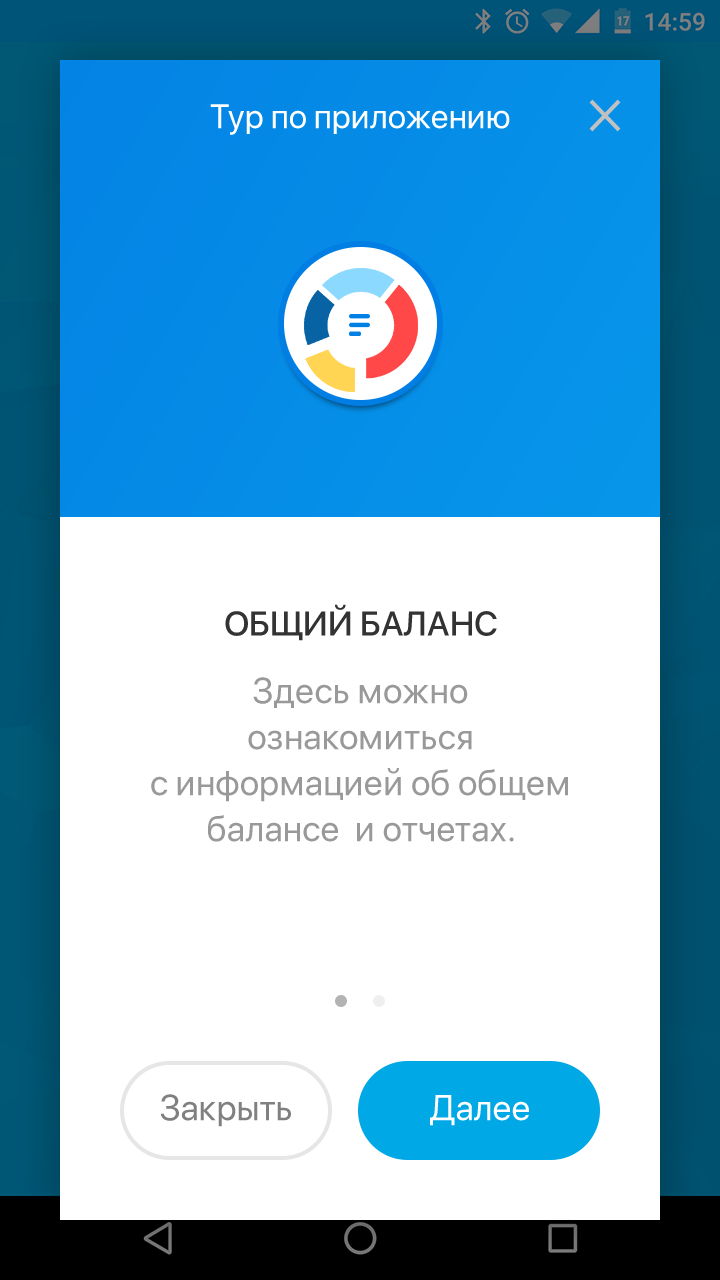
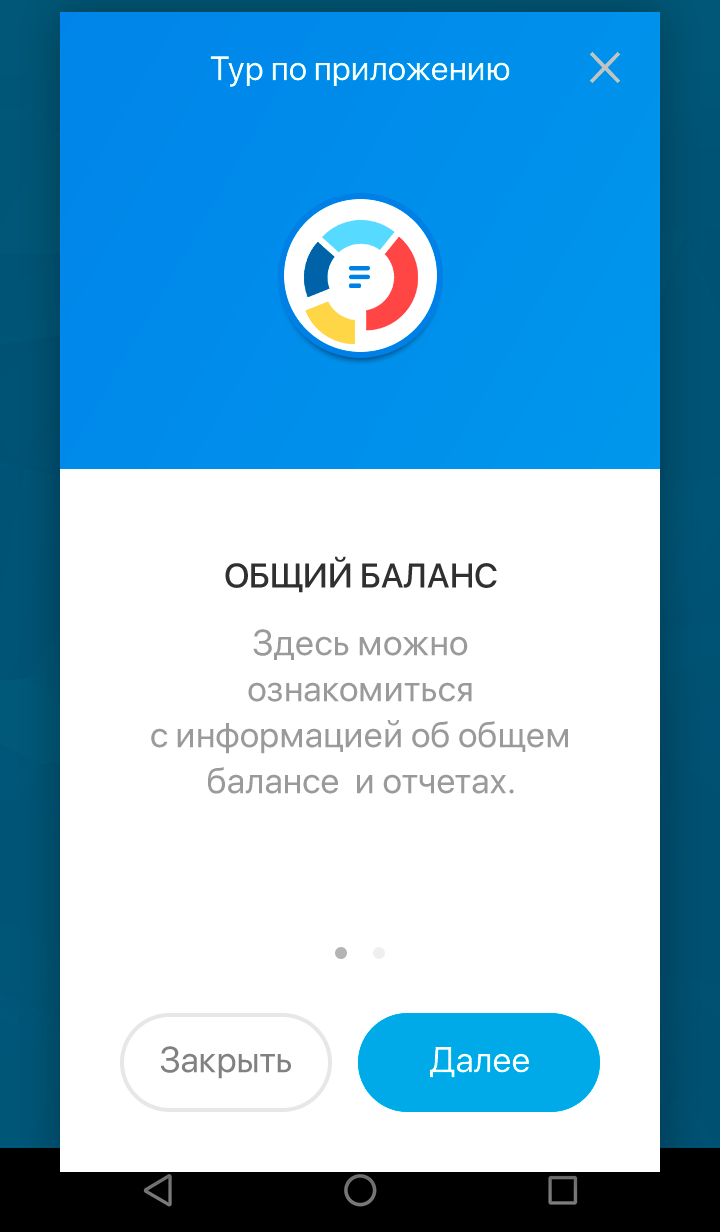
Component Tour with back side

diff --git a/click.parent/click.client/www/js/cssGenerator/Css.Generator.js b/click.parent/click.client/www/js/cssGenerator/Css.Generator.js
@@ -3011,7 +3011,7 @@ var css = {
   "background-color: white;" +
   "top:" + 78 * widthK + "px; " +
   "position:fixed;" +
-  "display: none;" +
+    //"display: none;" +
     //"box-shadow: 0 0 20px rgba(0,0,0,0.5);" +
   "-webkit-box-shadow: 0 8px 6px -6px rgba(0,0,0,0.5);" +
   "-moz-box-shadow: 0 8px 6px -6px rgba(0,0,0,0.5);" +
@@ -12961,8 +12961,23 @@ var css = {
 
 //  COMPONENT TOUR
 
+  tourBackPage: ".tour-back-page " +
+  "{" +
+  "position: absolute;" +
+  "height: 100%;" +
+  "width: 100%;" +
+  "overflow: hidden;" +
+  "overflow: hidden;" +
+  "transform: translate(0, 0);" +
+  "-webkit-transform: translate(0, 0);" +
+  "-ms-transform: translate(0, 0);" +
+  "background-color: rgba(0, 0, 0, 0.6);" +
+  "opacity: 1;" +
+  "}",
+
   componentTour: ".component-tour " +
   "{" +
+  "top: 1%;" +
   "position: absolute;" +
   "opacity: 1;" +
   "height: 95%;" +
@@ -12971,7 +12986,8 @@ var css = {
   "left: 8%;" +
   "background-color: white;" +
   "overflow: hidden;" +
-  "display:none;" +
+    //"display:none;" +
+  "z-index:999;" +
   "}",
 
   tourCardCarousel: ".tour-card-carousel " +
@@ -13124,7 +13140,7 @@ var css = {
   "height: 10%;" +
   "width: 100%;" +
     //"top:" + 500 * widthK + "px;" +
-  "bottom:4%;" +
+  "bottom:4.5%;" +
   "display: table;" +
   "margin-right: auto;" +
   "margin-left: auto;" +
@@ -13160,7 +13176,7 @@ var css = {
   tourCloseButton: ".tour-close-button" +
   "{" +
   "background-color: transparent;" +
-  "border: 2px solid #c1c1c1;" +
+  "border: 2px solid gainsboro;" +
   "width: 35%;" +
   "}",
 
@@ -13178,7 +13194,7 @@ var css = {
   "top: 36%;" +
   "display: table;" +
   "background-color: transparent;" +
-  "border: 2px solid #c1c1c1;" +
+  "border: 2px solid gainsboro;" +
   "border-radius:" + 50 * widthK + "px;" +
   "margin-right: auto;" +
   "margin-left: auto;" +
@@ -13217,7 +13233,7 @@ var css = {
   "margin-right: auto;" +
   "margin-left: auto;" +
   "height:" + 50 * widthK + "px;" +
-  "top: 79%;" +
+  "top: 80%;" +
   "}",
 
   tourCirclesField: ".tour-circles-field " +
